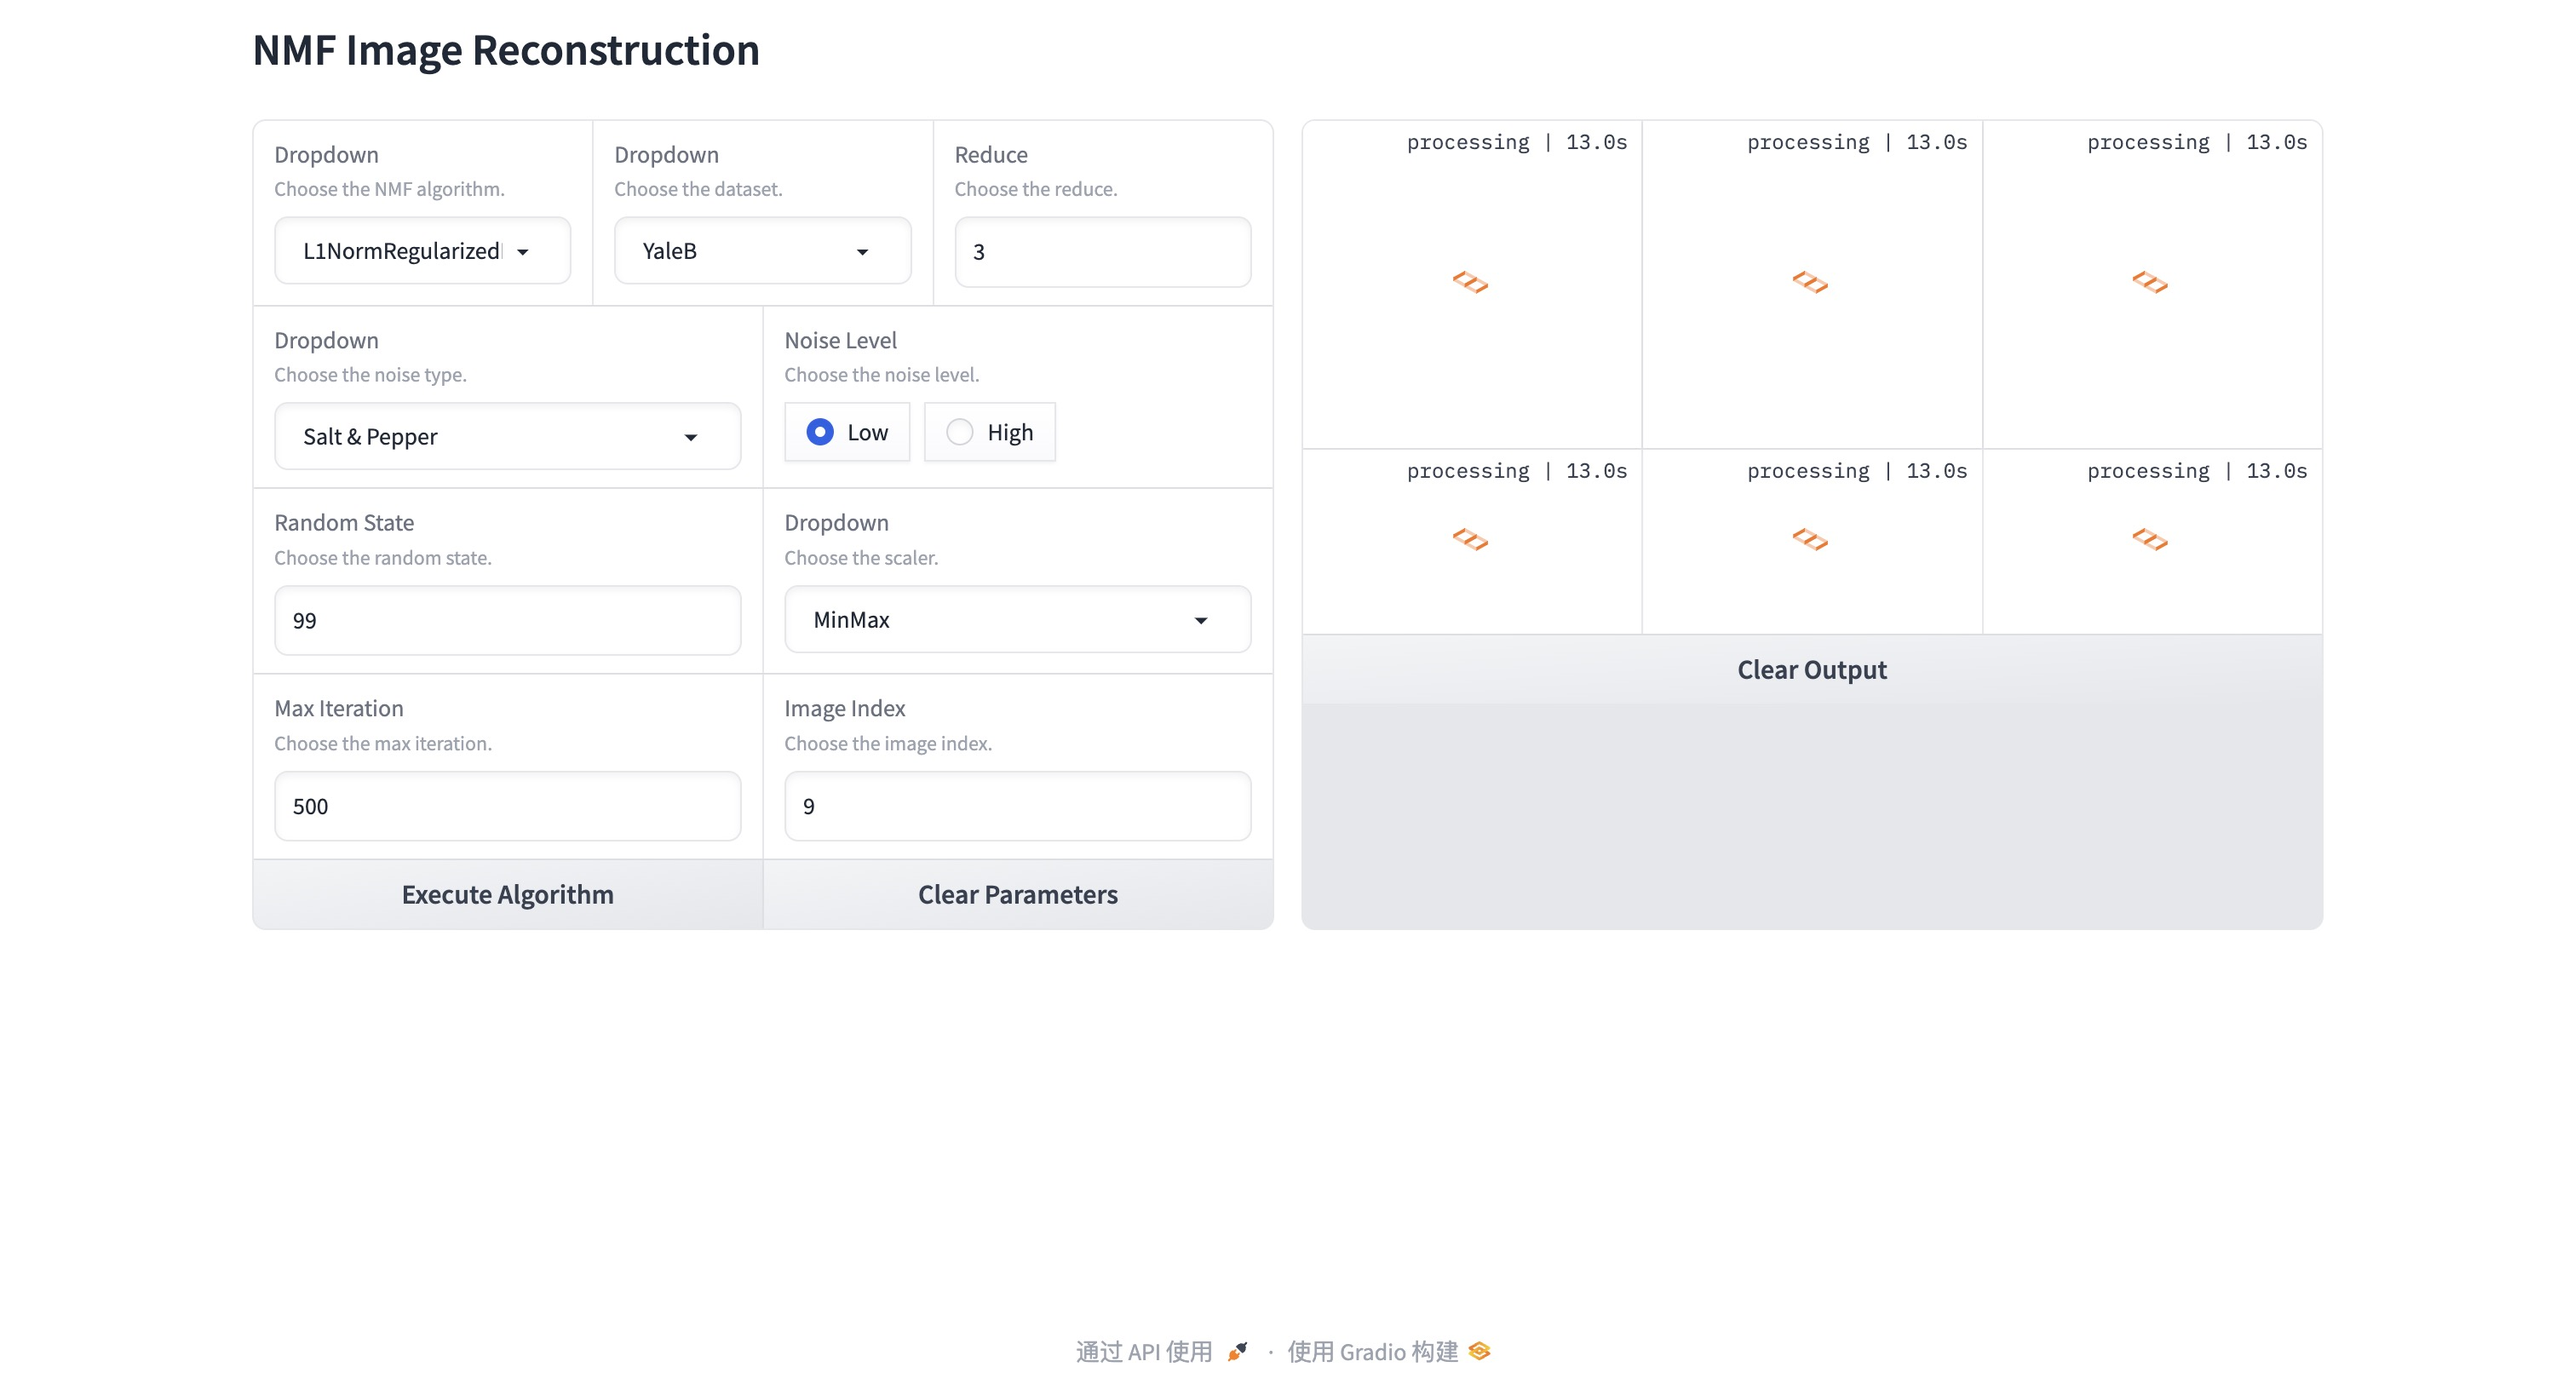
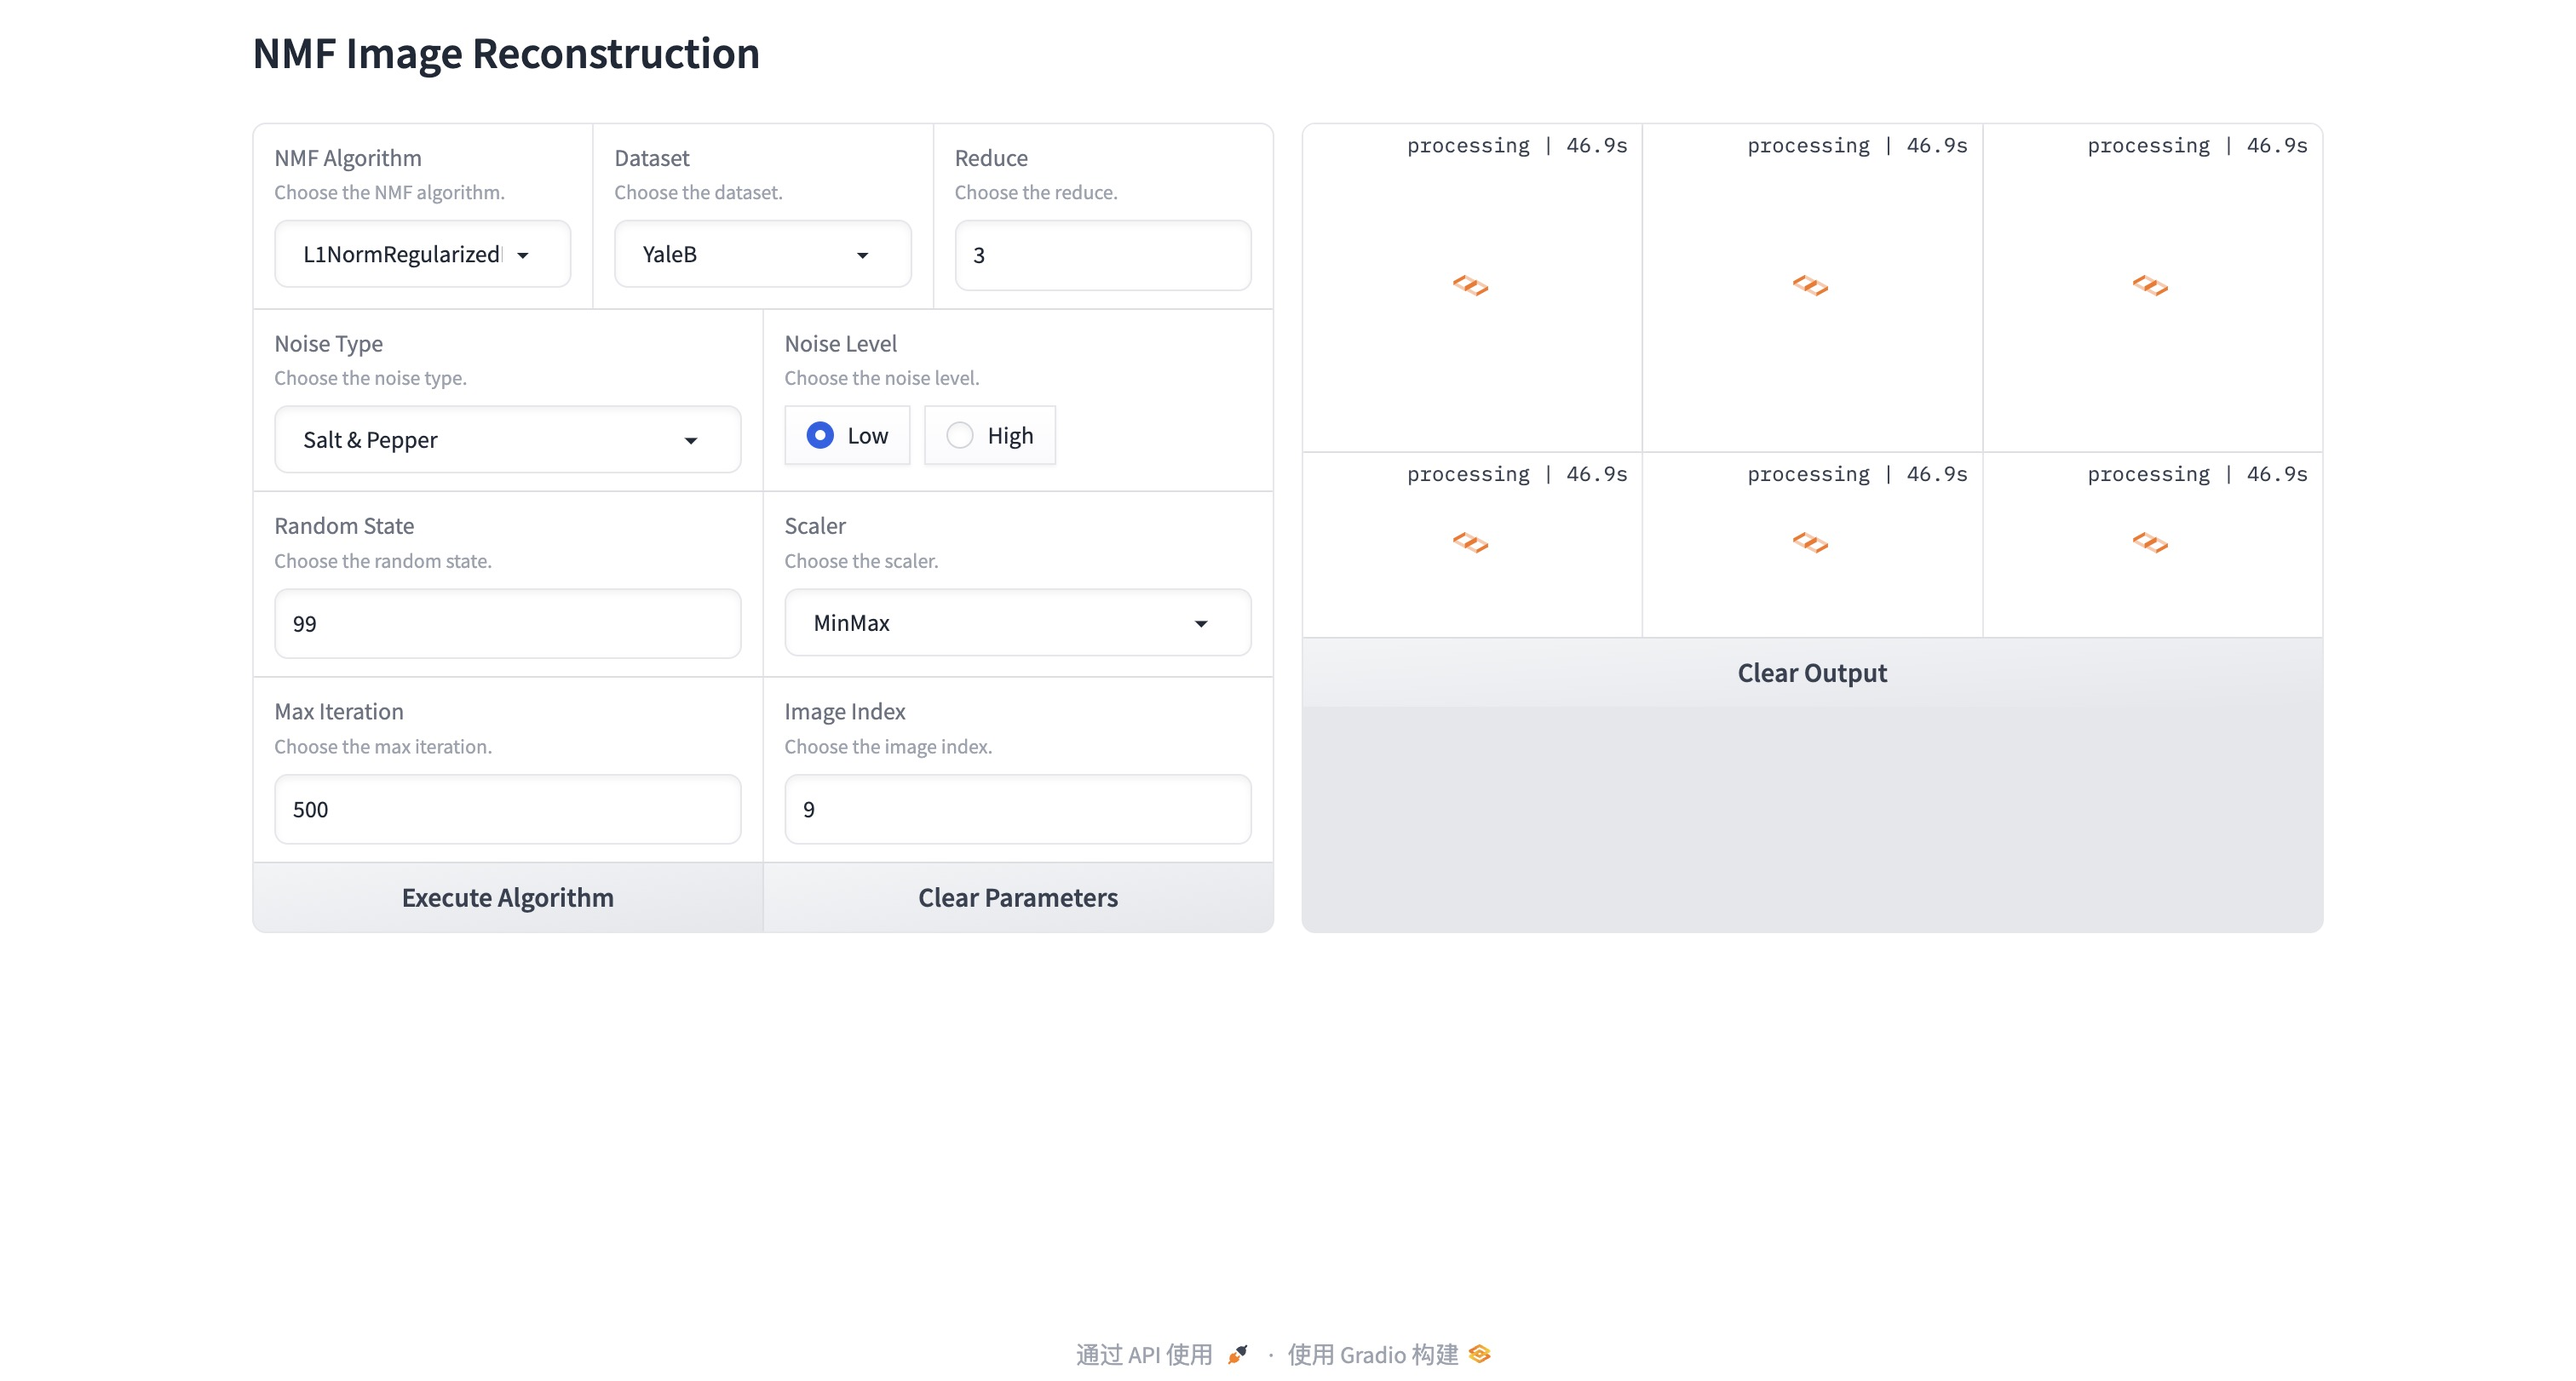
Fix

diff --git a/app.py b/app.py
@@ -74,6 +74,7 @@ with gr.Blocks() as demo:
         with gr.Group():
             with gr.Row():
                 nmf = gr.Dropdown(
+                    label="NMF Algorithm",
                     choices=['L1NormRegularizedNMF', 'L2NormNMF', 'KLDivergenceNMF', 
                             'ISDivergenceNMF', 'L21NormNMF', 'HSCostNMF', 
                             'CappedNormNMF', 'CauchyNMF'],
@@ -81,6 +82,7 @@ with gr.Blocks() as demo:
                     info="Choose the NMF algorithm.")
                 
                 dataset = gr.Dropdown(
+                    label="Dataset",
                     choices=['ORL', 'YaleB'],
                     value='YaleB',
                     info="Choose the dataset.")
@@ -92,6 +94,7 @@ with gr.Blocks() as demo:
                 
             with gr.Row():
                 noise_type = gr.Dropdown(
+                    label="Noise Type",
                     choices=['Uniform', 'Gaussian', 'Laplacian', 'Salt & Pepper', 'Block'],
                     value='Salt & Pepper',
                     info="Choose the noise type.")
@@ -110,6 +113,7 @@ with gr.Blocks() as demo:
                     info="Choose the random state.",)
                 
                 scaler = gr.Dropdown(
+                    label="Scaler",
                     choices=['MinMax', 'Standard'],
                     value='MinMax',
                     info="Choose the scaler.")
